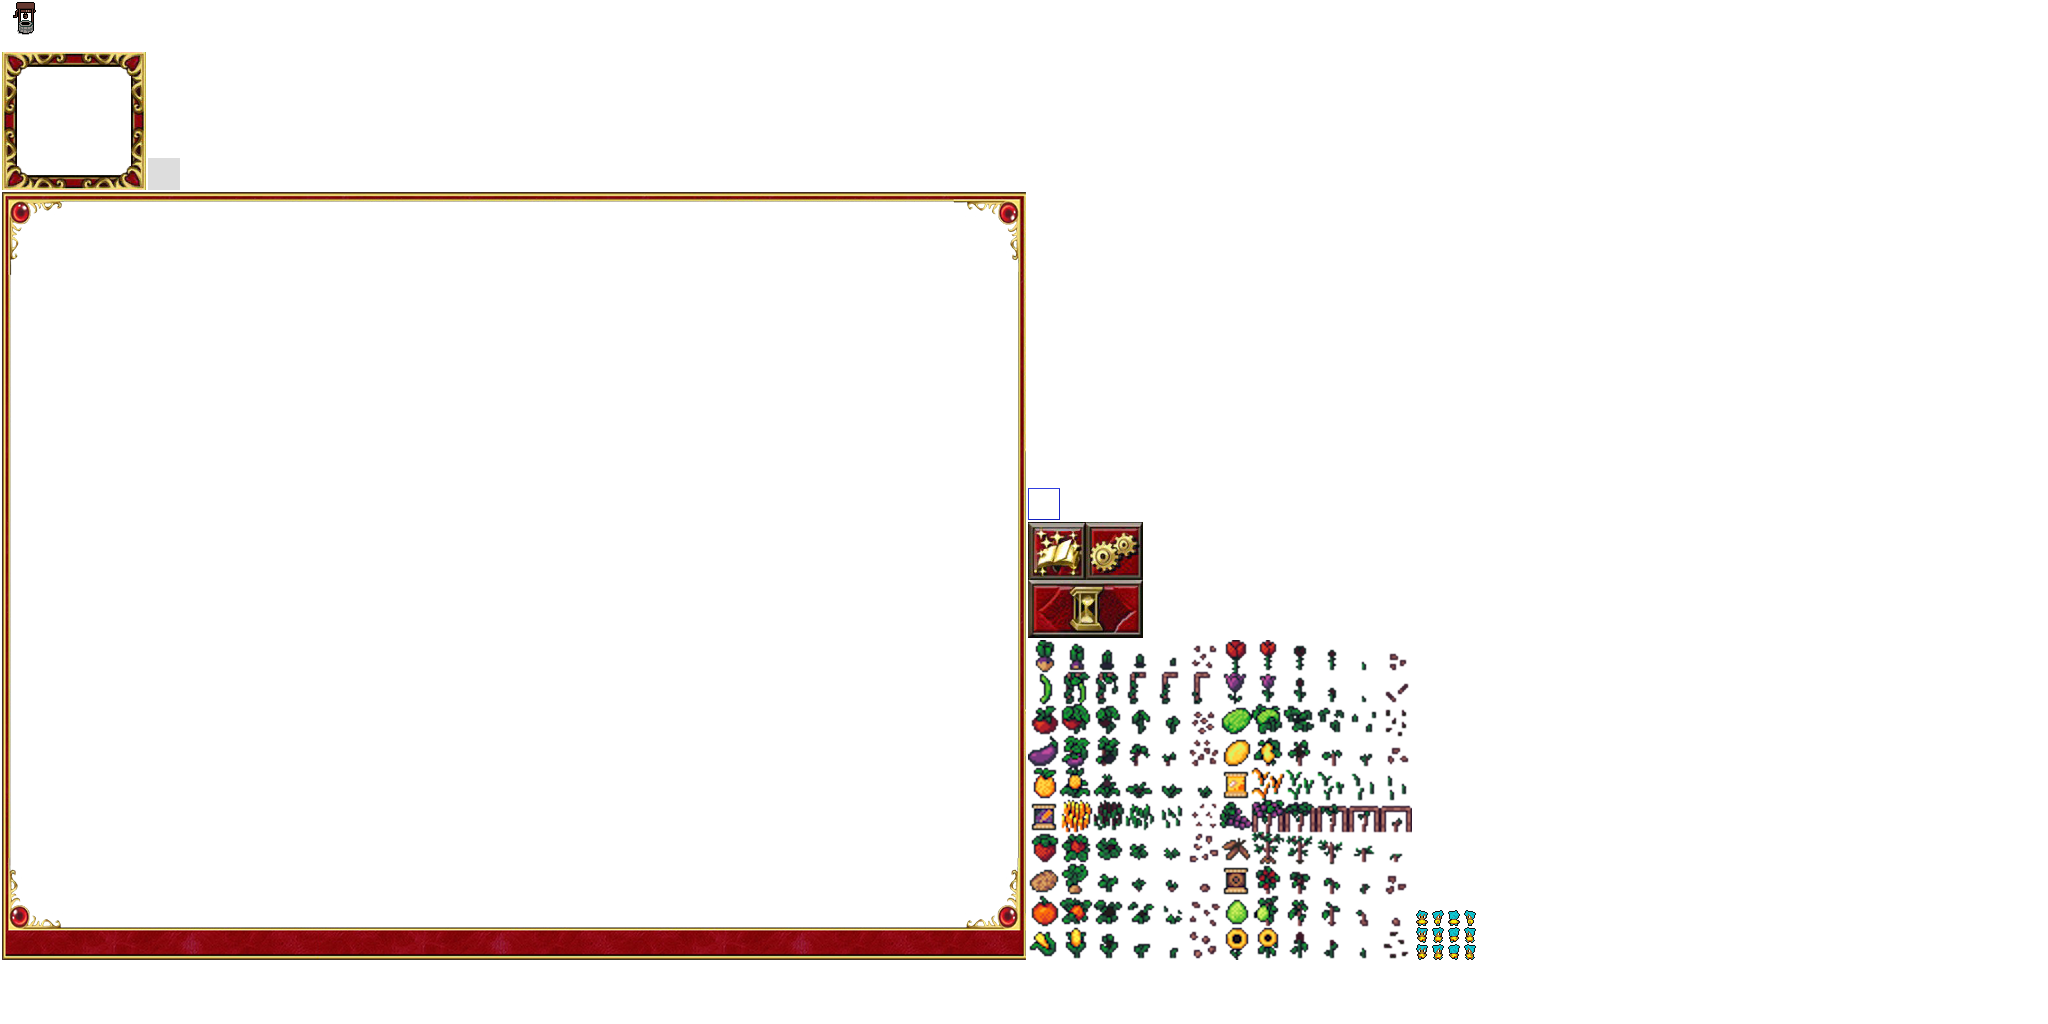
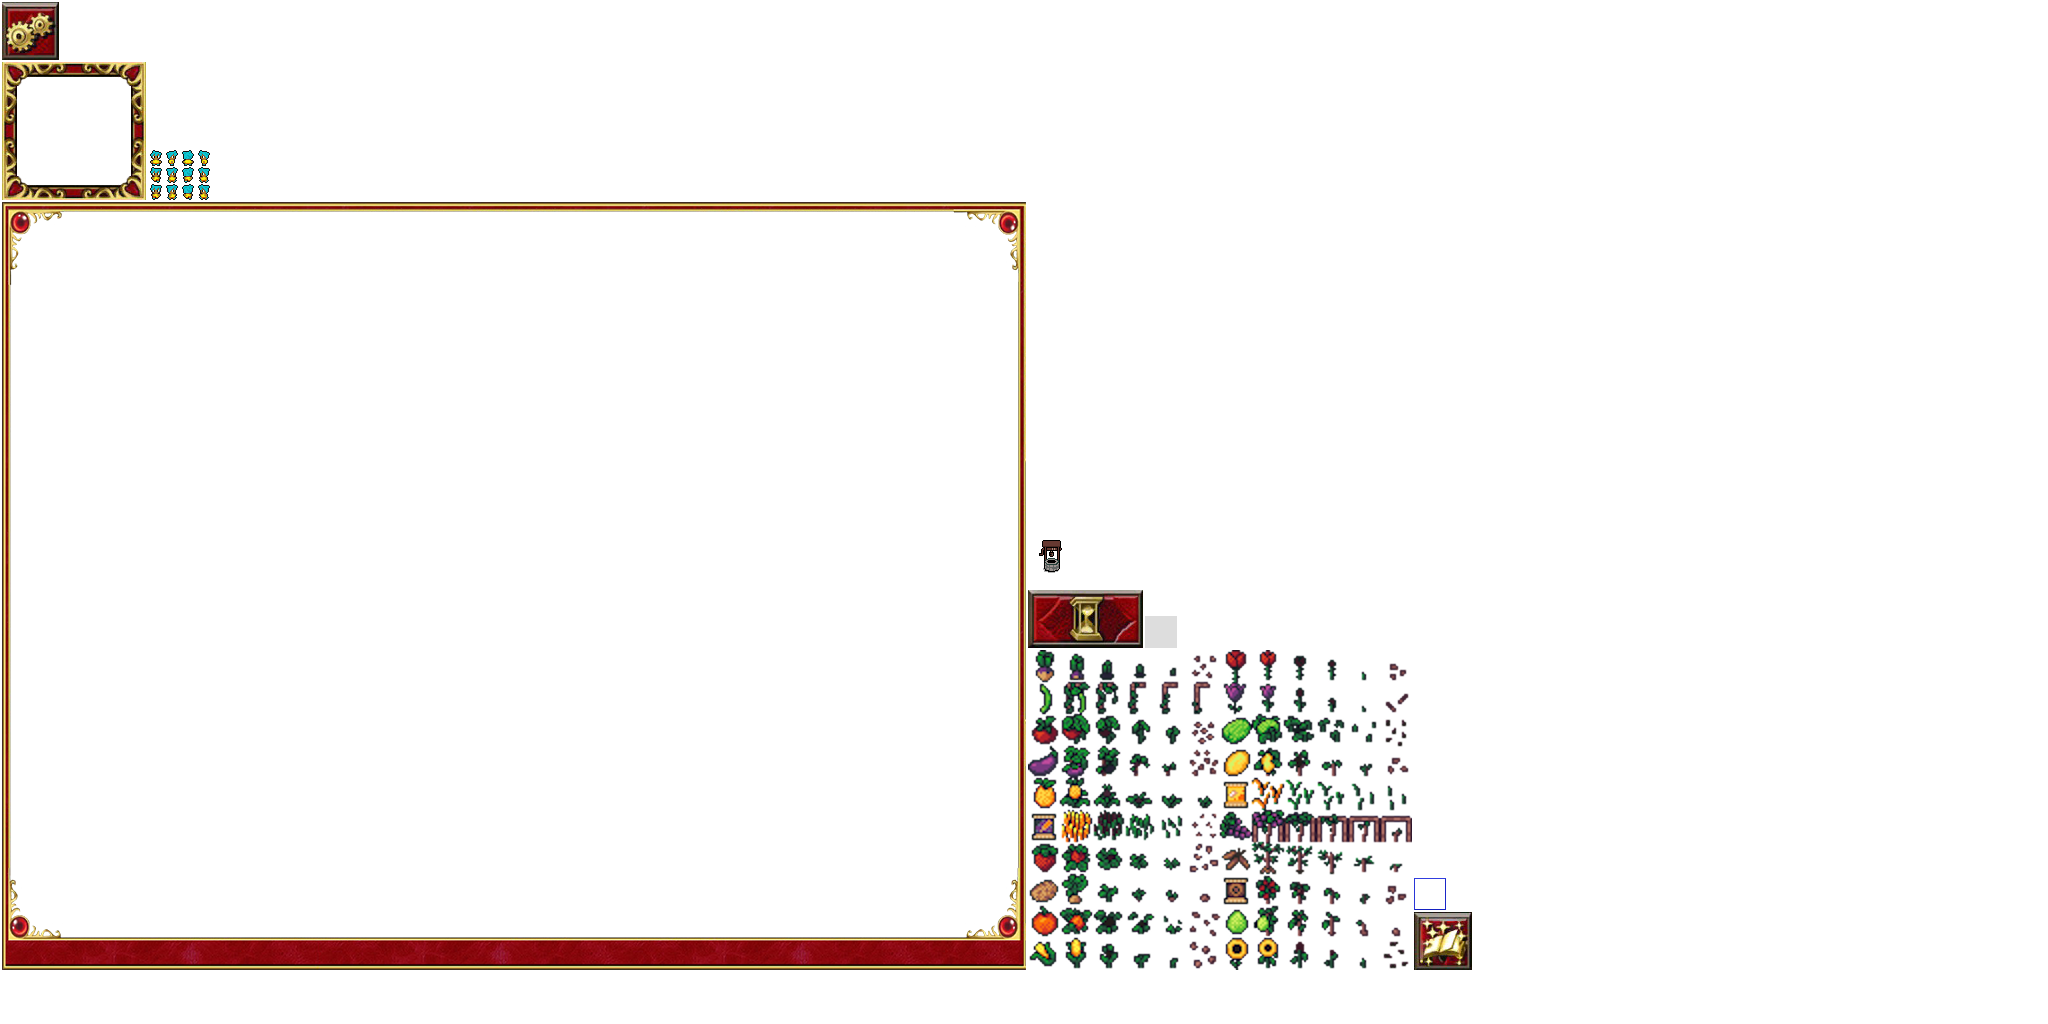
New Atlas again

Changed region(s): [[0.0, 0.5, 0.7188, 0.9688], [0.0, 0.0, 0.5, 0.25]]

diff --git a/garden_current/core/src/com/garden/game/tools/Assets.java b/garden_current/core/src/com/garden/game/tools/Assets.java
@@ -24,7 +24,7 @@ import java.util.ArrayList;
 public class Assets extends AssetManager {
     public TextureAtlas textureAtlas, styleAtlas, textureCrops;
     public Label.LabelStyle largeTextStyle;
-    public TextureRegionDrawable nextturnIcon, goldIcon, waterIcon , dirtIcon, inGameBorder, ButtonBorder;
+    public TextureRegionDrawable btnNextTurn, btnSetting, btnTalent,  goldIcon, waterIcon , dirtIcon, inGameBorder, buttonBorder;
     public TiledMapTileSet tileSet, tileSetNew;
     public TiledMapTileLayer.Cell grassCell;
     public ArrayList<Animation<TextureRegion>> walkAnimations, stopAnimations;
@@ -110,6 +110,25 @@ public class Assets extends AssetManager {
             index = 0;
             this.stopAnimations.add(new Animation<TextureRegion>(1f/5f, animationFrames));
         }
+
+    }
+
+    private void initBorder() {
+        TextureAtlas.AtlasRegion gameBorder = textureAtlas.findRegion("GameBorder");
+        inGameBorder = new TextureRegionDrawable(gameBorder);
+
+        TextureAtlas.AtlasRegion btnBorder = textureAtlas.findRegion("ButtonBorder");
+        buttonBorder = new TextureRegionDrawable(gameBorder);
+
+
+
+        TextureAtlas.AtlasRegion buttonNextTurnAtlas = textureAtlas.findRegion("ButtonNextTurn");
+        TextureAtlas.AtlasRegion buttonSettingsAtlas = textureAtlas.findRegion("ButtonSettings");
+        TextureAtlas.AtlasRegion buttonTalentAtlas = textureAtlas.findRegion("ButtonTalent");
+        btnNextTurn = new TextureRegionDrawable(buttonNextTurnAtlas);
+        btnSetting = new TextureRegionDrawable(buttonSettingsAtlas);
+        btnTalent = new TextureRegionDrawable(buttonTalentAtlas);
+
 
     }
 

diff --git a/garden_current/core/src/com/garden/game/world/World.java b/garden_current/core/src/com/garden/game/world/World.java
@@ -61,7 +61,7 @@ public class World extends Stage {
         worldWidth = tiledMap.getProperties().get("width", Integer.class);
         worldHeight = tiledMap.getProperties().get("height", Integer.class);
 
-        well = new Well(32*32, 32*32, app.assets.textureAtlas.createSprite("well"));
+        well = new Well(16, 16, app.assets.textureAtlas.createSprite("well"));
         addActor(well);
 
         addActor(user.unit);

diff --git a/garden_current/core/src/com/garden/game/world/Well.java b/garden_current/core/src/com/garden/game/world/Well.java
@@ -10,6 +10,7 @@ public class Well extends Actor {
     public Well(float x, float y, Sprite sprite) {
         super.setPosition(x, y);
         this.sprite = sprite;
+        sprite.setPosition(x*32, y*32);
 
     }
 }
